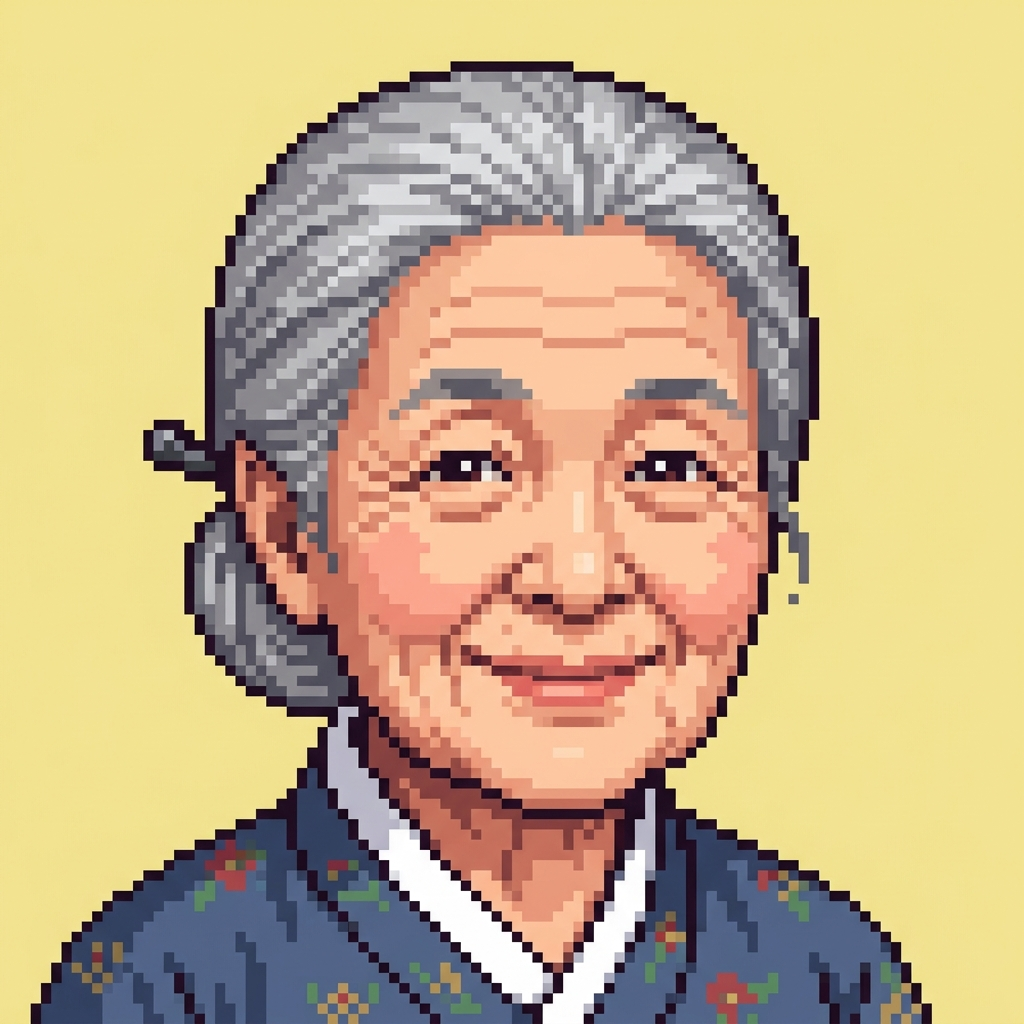
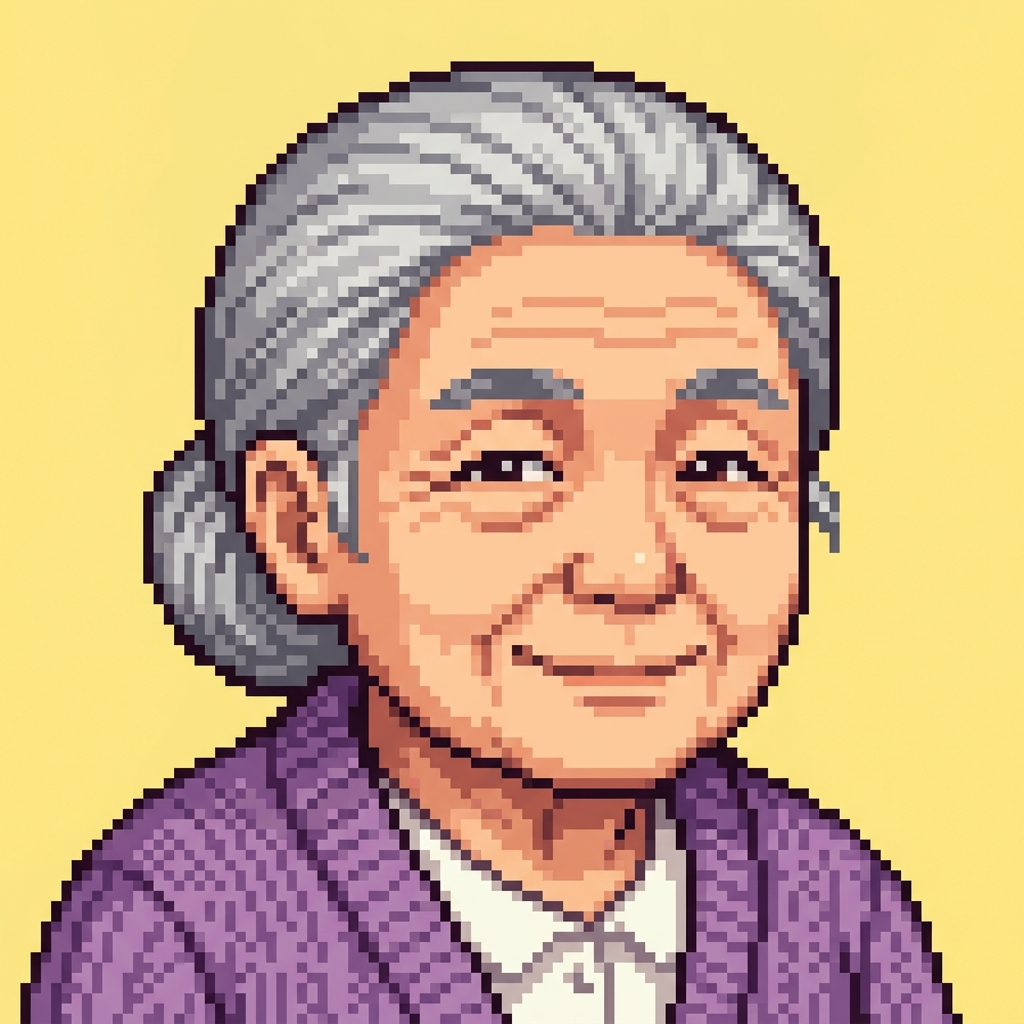
simulation v3

diff --git a/projects/2026-shelter-simulation.html b/projects/2026-shelter-simulation.html
@@ -41,6 +41,7 @@
             </section>
 
             <!-- CHARACTER SELECT SCREEN -->
+            <!-- CHARACTER SELECT SCREEN -->
             <section id="screen-char-select" class="game-section">
                 <div class="pixel-title-sm">캐릭터 선택 (SELECT CHARACTER)</div>
                 
@@ -52,7 +53,7 @@
                         </div>
                         <div class="char-info">
                             <span class="char-name">민우 (지진 / 휠체어 이용자)</span>
-                            <span class="char-stat">주요 특성: 엘리베이터 오작동 대비, 계단 피난 대기, 무단차 보행로 대피</span>
+                            <span class="char-stat">나이: 24세, 직업: 대학생, 가족: 1인 가구 (자취)</span>
                             <p class="char-desc">평화로운 오후, 갑자기 집이 격렬하게 흔들립니다. 여진 발생 전 운동장 대피소로 대피하라는 문자가 옵니다.</p>
                         </div>
                     </div>
@@ -64,19 +65,19 @@
                         </div>
                         <div class="char-info">
                             <span class="char-name">현아 (침수 / 영유아 동반)</span>
-                            <span class="char-stat">주요 특성: 아기 띠 이동 시 기동성 지연, 기저귀 교환실 및 따뜻한 식수 필수</span>
+                            <span class="char-stat">나이: 31세, 직업: 프리랜서, 가족: 배우자, 자녀(1세)</span>
                             <p class="char-desc">창밖 도로에 흙탕물이 급격하게 차오릅니다. 비상 가방을 메고 근처 강당 대피소로의 대피 명령을 수신했습니다.</p>
                         </div>
                     </div>
 
-                    <!-- Character 3: Foreigner Student (Michael) -->
+                    <!-- Character 3: Foreigner Student (Tuan) -->
                     <div class="char-card retro-box clickable" onclick="game.selectCharacter('foreign')">
                         <div class="char-avatar">
-                            <img src="../assets/images/pixel_avatar_foreigner.png" alt="마이클" class="char-avatar-img">
+                            <img src="../assets/images/pixel_avatar_foreigner.png" alt="투안" class="char-avatar-img">
                         </div>
                         <div class="char-info">
-                            <span class="char-name">마이클 (화학재난 / 외국인 유학생)</span>
-                            <span class="char-stat">주요 특성: 한글 재난문자 해독 필요, 영문 안내 이정표 필수, 가스 회피 고지대 이동</span>
+                            <span class="char-name">투안 (화학재난 / 베트남 유학생)</span>
+                            <span class="char-stat">나이: 22세, 직업: 어학연수생, 가족: 1인 가구 (자취)</span>
                             <p class="char-desc">동네에 가스 냄새가 나고 화학 공장 사이렌이 울립니다. 해독 불가한 한국어 대피 재난 문자가 도착합니다.</p>
                         </div>
                     </div>
@@ -88,7 +89,7 @@
                         </div>
                         <div class="char-info">
                             <span class="char-name">김순임 (폭염 / 독거 노인)</span>
-                            <span class="char-stat">주요 특성: 어플 쉼터 검색 차단, 유선 쉼터 연락망 의존, 급격한 탈수 방지 식수 보충</span>
+                            <span class="char-stat">나이: 78세, 직업: 무직, 가족: 1인 가구 (독거)</span>
                             <p class="char-desc">에어컨이 고장 나 방 안 온도가 38도까지 올랐습니다. 어지럼증을 느끼고 무더위 쉼터로 대피해야 합니다.</p>
                         </div>
                     </div>

diff --git a/projects/simulation-db.js b/projects/simulation-db.js
@@ -15,7 +15,7 @@ window.SIMULATION_DB = {
             startStep: "inf_start"
         },
         foreign: {
-            name: "마이클 (외국인 유학생)",
+            name: "투안 (외국인 유학생)",
             avatar: "🌎",
             avatarImg: "../assets/images/pixel_avatar_foreigner.png",
             startStep: "for_start"
@@ -243,7 +243,7 @@ window.SIMULATION_DB = {
             ]
         },
 
-        // --- FOREIGNER STUDENT (마이클 - 화학재난) ---
+        // --- FOREIGNER STUDENT (투안 - 화학재난) ---
         for_start: {
             nodeName: "for_start",
             location: "동네 주택가 원룸 앞",
@@ -330,14 +330,14 @@ window.SIMULATION_DB = {
             avatar: "📱",
             text: "앱의 돋보기 메뉴를 켜도 글씨가 너무 작고 복잡해 어디를 눌러야 무더위쉼터가 나오는지 헤맵니다. 화면 밝기가 낮아 눈이 침침하고, 골방 열기 속에서 시간만 계속 흘러갑니다.",
             choices: [
-                { text: "스마트폰 검색을 포기하고 실버카에 의지해 밖으로 나간다.", label: "안전", hpMod: -0.5, timeMod: -60, nextStep: "eld_walk" }
+                { text: "스마트폰 검색을 포기하고 보행기에 의지해 밖으로 나간다.", label: "안전", hpMod: -0.5, timeMod: -60, nextStep: "eld_walk" }
             ]
         },
         eld_walk: {
             nodeName: "eld_walk",
             location: "아스팔트 골목길 언덕",
             avatar: "☀️",
-            text: "작열하는 태양 볕 아래 그늘 한 점 없는 가파른 골목 언덕을 실버카를 짚어가며 천천히 올라갑니다. 땅바닥에서 올라오는 열기로 가슴이 두근거리고 호흡이 벅깝니다.",
+            text: "작열하는 태양 볕 아래 그늘 한 점 없는 가파른 골목 언덕을 보행기를 짚어가며 천천히 올라갑니다. 땅바닥에서 올라오는 열기로 가슴이 두근거리고 호흡이 벅깝니다.",
             choices: [
                 { text: "언덕 중턱에 위치한 동네 노인 경로당 쉼터로 들어간다.", label: "안전", hpMod: 0, timeMod: -60, nextStep: "eld_rest_center" }
             ]
@@ -349,7 +349,7 @@ window.SIMULATION_DB = {
             text: "경로당에 다다랐으나 문이 단단히 잠겨 있습니다. 작은 인쇄지에 '냉방비 지원금 소진 및 주말 미운영으로 인해 휴관합니다'라고 쓰여 있습니다. 주소만 보고 찾아왔는데 헛걸음했습니다.",
             choices: [
                 { text: "주민센터 쉼터까지 무작정 다시 한 정거장 더 걸어간다.", label: "위험", hpMod: -1.5, timeMod: -120, nextStep: "eld_closed_door" },
-                { text: "실버카에 붙은 주민센터 대표 전화번호 스티커를 찾아 전화를 건다.", label: "안전", hpMod: 0, timeMod: -120, nextStep: "eld_phone_search" }
+                { text: "보행기에 붙은 주민센터 대표 전화번호 스티커를 찾아 전화를 건다.", label: "안전", hpMod: 0, timeMod: -120, nextStep: "eld_phone_search" }
             ]
         },
         eld_closed_door: {

diff --git a/projects/simulation.js b/projects/simulation.js
@@ -290,17 +290,9 @@ const game = {
             // Remove any leading numbers or dots (e.g. "1. ")
             const cleanText = choice.text.replace(/^\d+\.\s*/, '').trim();
             
-            // Get label (위험 or 안전) from DB property directly
-            const label = choice.label || '';
-
             const scenarioDiv = document.createElement('div');
             scenarioDiv.className = 'choice-scenario';
-            if (label) {
-                const labelClass = label === '위험' ? 'modifier-neg' : 'modifier-pos';
-                scenarioDiv.innerHTML = `<span class="${labelClass}">[${label}]</span> ${cleanText}`;
-            } else {
-                scenarioDiv.textContent = cleanText;
-            }
+            scenarioDiv.textContent = cleanText;
             
             const modifiersDiv = document.createElement('div');
             modifiersDiv.className = 'choice-modifiers';